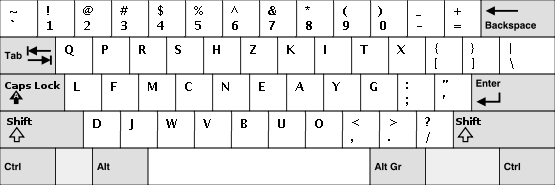
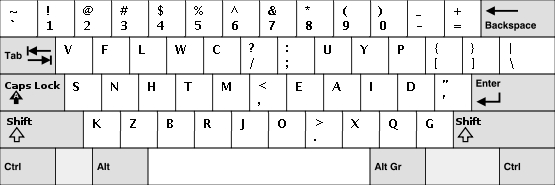
thesis: poprawienie ilustracji dla AG2

diff --git a/thesis/magisterka.tex b/thesis/magisterka.tex
@@ -615,7 +615,7 @@ Porównanie wartości funkcji przystosowania oraz jej składników dla różnych
 \caption{Najlepsze rozwiązania algorytmów SW (na górze) oraz AG2 (na dole)}
 \end{figure}
 
-Ponieważ podczas projektowania układu QWERTY nie były uwzględniane kryteria ergonomiczne, należy spodziewać się że nie będzie on znacząco lepszy od losowo wygenerowanego układu klawiszy. Rzeczywiście, funkcja oceny nie różni się istotnie w tych przypadkach. Wyraźnie lepsze wyniki osiągnął układ Dvoraka, co nie jest zaskoczeniem biorąc pod uwagę fakt, że był on tworzony z myślą o języku angielskim, a kryteria stosowane przy jego projektowaniu w dużym stopniu pokrywają się z tymi użytymi w funkcji przystosowania. Najlepszy wynik znaleziony przez algorytm genetyczny posiada ocenę o $12\%$ korzystniejszą od najlepiej ocenionego układu wśród pozostałych, jakim jest klawiatura Dvoraka.
+Ponieważ podczas projektowania układu QWERTY nie były uwzględniane kryteria ergonomiczne, należy spodziewać się że nie będzie on znacząco lepszy od losowo wygenerowanego układu klawiszy. Rzeczywiście, funkcja oceny nie różni się istotnie w tych przypadkach, a nawet jest gorsza dla QWERTY. Wyraźnie lepsze wyniki osiągnął układ Dvoraka, co nie jest zaskoczeniem biorąc pod uwagę fakt, że był on tworzony z myślą o języku angielskim, a kryteria stosowane przy jego projektowaniu w dużym stopniu pokrywają się z tymi użytymi w funkcji przystosowania. Najlepszy wynik znaleziony przez algorytm posiada ocenę o $12\%$ korzystniejszą od najlepiej ocenionego układu wśród pozostałych, jakim jest klawiatura Dvoraka. Algorytmy AG2 oraz SW uzyskały ocenę lepszą od QWERTY, ale też wyraźnie gorszą od Dvoraka.
 
 Większość układów klawiatury znalezionych przez algorytm przejawia wyraźną tendencję do umieszczania samogłosek po tej samej, lewej lub prawej stronie i na środkowym rzędzie. Pomysł Augusta Dvoraka, aby umieścić wszystkie samogłoski z lewej strony zaprojektowanego przez niego układu, znajduje tym samym niezależne potwierdzenie empiryczne (należy zwrócić uwagę, że algorytm nie posiada żadnej informacji o tym, które znaki są samogłoskami, a które spółgłoskami).
 
